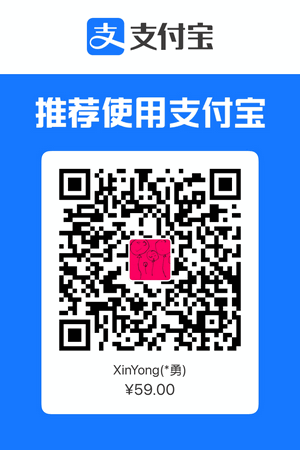
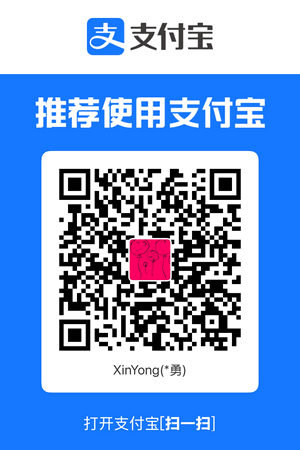
Add pay (#11)

Changed region(s): [[0.18, 0.3733, 0.81, 0.7778], [0.12, 0.84, 0.87, 0.9644]]

diff --git a/README.md b/README.md
@@ -25,6 +25,8 @@
 
 **Cloud-Guardian- 让云计算更简单，更经济！**
 
+
+
 ------
 
 
@@ -43,6 +45,8 @@
 
 ![status_disabled](./.res/status_disabled.png)
 
+
+
 ------
 
 
@@ -60,26 +64,48 @@
 ##### 谷歌云永久免费服务器限制要求：
 
 - 地区限制：在美国的以下区域俄勒冈、爱荷华、南卡罗来纳；
+
 - 磁盘限制：30 GB 标准永久性磁盘
+
 - 网络服务层级：标准（每个区域每月可免费传输200GB数据）
+
+  
+
+------
 
 
 
 #### 使用方法：
 
 ```
-cd ~
 sudo apt remove -y --purge man-db
-sudo apt install git
+sudo apt install -y git
+
+cd ~
 git clone https://github.com/yongxin-ms/CloudGuardian.git
 cd CloudGuardian
 cp .env.example .env
 
 sudo vim /etc/crontab
 
-# Append the following line
+# Append the following line to crontab
 * * * * * root cd /home/{YOUR_USER_NAME}/CloudGuardian/ && ./run.sh
 ```
+
+
+
+------
+
+
+
+#### 热心老板请我喝杯咖啡，请随意！
+
+| ![pay_tencent](./.res/pay_tencent.png) | ![pay_ali](./.res/pay_ali.png) |
+| -------------------------------------- | ------------------------------ |
+
+
+
+------
 
 
 
@@ -87,4 +113,4 @@ sudo vim /etc/crontab
 
 您的支持是我坚持的动力，感谢！
 
-[![Star History Chart](https://api.star-history.com/svg?repos=yongxin-ms/CloudGuardianPub&type==Date)
+![Star History Chart](https://api.star-history.com/svg?repos=yongxin-ms/CloudGuardianPub&type==Date)
